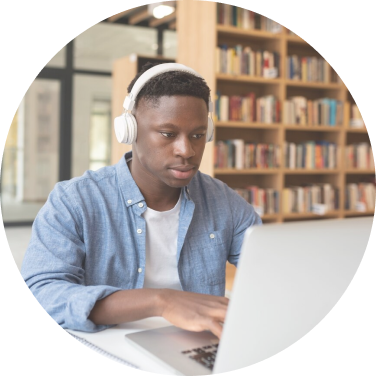
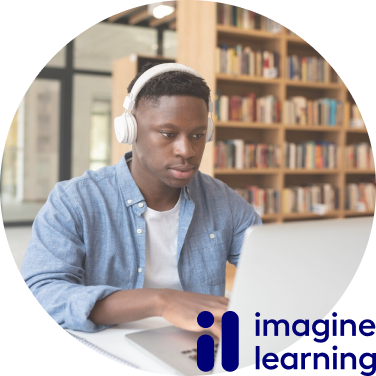
Add Section - Imagine Learning & Elgibility Registration

Changed region(s): [[0.6729, 0.8191, 1.0, 1.0], [0.5266, 0.8191, 0.6436, 0.9947]]

diff --git a/style.css b/style.css
@@ -4,6 +4,7 @@
   --clr-orange: #fa913c;
   --clr-gray: #aaa;
   --clr-light-gray: #e7e7e7;
+  --container-padding: clamp(1.5rem, -1.777rem + 13.981vw, 15rem);
 }
 
 /* ---------- font-face ---------- */
@@ -81,6 +82,8 @@ body {
 body {
   font-family: "Archivo Expanded", sans-serif;
   font-size: clamp(0.875rem, 0.696rem + 0.764vw, 1.25rem);
+  font-weight: 300;
+  line-height: 1.4;
   -webkit-font-smoothing: antialiased;
 }
 
@@ -115,20 +118,30 @@ h6 {
   display: flex;
 }
 
+.d-grid {
+  display: grid;
+}
+
 .container {
-  padding-inline: clamp(1.5rem, -1.777rem + 13.981vw, 15rem);
+  padding-inline: var(--container-padding);
   margin: 0 auto;
 }
 
 /* ---------- Styles ---------- */
-
+h1, h2 {
+  text-transform: uppercase;
+}
 hr {
   border: 0;
   border-bottom: 1px solid var(--clr-black);
 }
 
-/* header */
+body {
+  max-width: 1920px;
+  margin: 0 auto;
+}
 
+/* header */
 header .container {
   padding-block: 1rem;
   justify-content: space-between;
@@ -145,12 +158,11 @@ header nav a {
 }
 
 header hr {
-  width: calc(100% - 1.5rem);
+  width: calc(100% - var(--container-padding));
   float: right;
 }
 
 /* hero */
-
 #hero {
   position: relative;
   margin-block: 1.5rem;
@@ -166,7 +178,6 @@ header hr {
 }
 
 #hero .container {
-  display: grid;
   align-content: center;
   position: relative;
   z-index: 1;
@@ -187,7 +198,6 @@ header hr {
 }
 #hero p {
   font-weight: 300;
-  line-height: 1.4;
 }
 
 #hero p:first-of-type {
@@ -217,7 +227,7 @@ header hr {
   min-height: clamp(37.5rem, 28.901rem + 36.688vw, 55.5rem);
   padding-block: 4rem;
 }
-.subMenu_list {
+.subMenu__list {
   justify-content: space-between;
 }
 .subMenu {
@@ -244,36 +254,133 @@ header hr {
 .subMenu.athletics {
   background-image: url(./images/home_athletics.png);
 }
-.subMenu_txt {
+.subMenu__txt {
   font-weight: 700;
-  line-height: 1.4;
   text-align: center;
 }
-.subMenu_txt p:nth-child(1) {
+.subMenu__txt p:nth-child(1) {
   font-size: clamp(1rem, 0.761rem + 1.019vw, 1.5rem);
 }
-.subMenu_txt p:nth-child(2) {
+.subMenu__txt p:nth-child(2) {
   font-size: clamp(2rem, 1.522rem + 2.038vw, 3rem);
 }
-.subMenu_txt p:nth-child(2) span {
+.subMenu__txt p:nth-child(2) span {
   color: var(--clr-orange);
   background-color: var(--clr-black);
   border-radius: .5rem;
   padding-inline: 1rem;
 }
 
+/* Imagine Learning & Elgibility Registration */
+#imgLearning, #elgibility {
+  position: relative;
+  background-color: var(--clr-light-gray);
+  padding-block-start: clamp(2rem, 0.567rem + 6.115vw, 5rem);
+}
+:has(#imgLearning, #elgibility ) h2 {
+  font-weight: 800;
+  margin-bottom: 1.5rem;
+}
+#imgLearning hr {
+  position: absolute;
+  left: 0;
+  min-width: calc(100% - var(--container-padding));
+}
+#imgLearning .d-grid {
+  position: relative;
+  grid-template-columns: repeat(2, 1fr);
+  column-gap: clamp(0.625rem, 0.446rem + 0.764vw, 1rem);
+}
+.imgLearning__img {
+  position: relative;
+  top: -1rem;
+}
+.imgLearning__txt1 {
+  align-self: center;
+  margin-top: 1.5rem;
+}
+.imgLearning__txt2 {
+  margin-top: 1rem;
+  grid-column: 1 / span 2;
+}
+#elgibility {
+  padding-block-end: clamp(2rem, 0.567rem + 6.115vw, 5rem);
+  position: relative;
+}
+.elgibility__img {
+  display: none;
+}
+#elgibility hr {
+  position: absolute;
+  right: 0;
+  min-width: calc(100% - var(--container-padding));
+  z-index: 0;
+}
+.elgibility__logo {
+  padding-top: 2rem;
+  justify-content: center; 
+  gap: 2rem;
+}
+.elgibility__logo img {
+  width: clamp(6.563rem, 5.518rem + 4.459vw, 8.75rem);
+}
+
+/* ---------- MEDIA QUERY ---------- */
+
 @media (min-width: 768px) {
   
   /* hero */
   #hero {
-    margin-block: 3rem;
+    margin: 3rem 0 5rem;
   }
   #hero h1 {
     padding-top: unset;
     width: unset;
   }
   #hero p {
-    width: 55%;
+    width: 57%;
+  }
+
+  /* Imagine Learning & Elgibility Registration */
+  #imgLearning .d-grid {
+    grid-template-columns: 1fr 33.33%;
+  }
+  .imgLearning__img {
+    grid-column: 2;
+    grid-row: 1 / span 2;
+  }
+  .imgLearning__txt2 {
+    grid-column: 1;
+  }
+  #elgibility {
+    padding-block-start: 1rem;
+  }
+  #elgibility .d-grid {
+    grid-template-columns: repeat(2, 1fr);
+    gap: 5rem;
+  }
+  .elgibility__img {
+    display: block;
+    position: relative;
+  }
+  .elgibility__img .orangeCircle {
+    position: absolute;
+    background-color: var(--clr-orange);
+    border-radius: 50%;
+    mix-blend-mode: multiply;
+    height: 100%;
+    aspect-ratio: 1 / 1;
+    z-index: 2;
+  }
+  .elgibility__img img {
+    position: relative;
+    top: 6%;
+    left: 10%;
+    z-index: 1;
+  }
+  .elgibility__txt{
+    text-align: center;
+    align-self: center;
   }
 }
 
@@ -297,17 +404,17 @@ header hr {
     flex-direction: row;
     align-items: center;
   }
-  .subMenu_list {
+  .subMenu__list {
     flex-direction: column;
   }
   .subMenu.academics {
     margin-top: unset;
     margin-left: 200px;
   }
-  .subMenu_txt {
+  .subMenu__txt {
     text-align: left;
   }
-  .subMenu_txt p:nth-child(1) {
+  .subMenu__txt p:nth-child(1) {
     margin-top: 7.5rem;
     margin-bottom: 40px;
   }

diff --git a/index.html b/index.html
@@ -23,7 +23,7 @@
     <main>
       <section id="hero" class="d-flex">
         <img class="hero-img" src="./images/hero.png" />
-        <div class="container">
+        <div class="container d-grid">
           <h1><span>Welcome to</span> Midwest Christian Academy</h1>
           <p>
             Midwest Christian Academy has a mission of <span>educating and empowering</span>
@@ -40,12 +40,12 @@
       </section>
       <section class="bg-basketball">
         <div class="container">
-          <div class="subMenu_list d-flex">
+          <div class="subMenu__list d-flex">
             <a href="#" class="subMenu spiritual">Spiritual Growth</a>
             <a href="#" class="subMenu academics">Academics</a>
             <a href="#" class="subMenu athletics">Athletics</a>
           </div>
-          <div class="subMenu_txt">
+          <div class="subMenu__txt">
             <p>
               Institutions install habits,<br />
               habits become virtues,
@@ -55,6 +55,33 @@
               become<br />
               <span>character.</span>
             </p>
+          </div>
+        </div>
+      </section>
+      <section id="imgLearning">  
+        <div class="container">
+          <h2>EDUCATION POWERED BY Imagine Learning</h2>
+          <hr>
+          <div class="d-grid">
+            <p class="imgLearning__txt1"><b>Midwest Christian Academy partners with Imagine Learning Academy to maximize student achievement.</b></p>
+            <img class="imgLearning__img" src="./images/home_imagelearning.png" alt="Imagine Learning">
+            <p class="imgLearning__txt2">Imagine Edgenuity is a virtual alternative, and uses pre-recorded videos and primarily focuses on struggling students, and sticking at pace. Along with pre-recorded lecture, Imagine Edgenuity uses interactives and real-world problems.</p>
+          </div>
+        </div>
+      </section>
+      <section id="elgibility">
+        <div class="container d-grid">
+          <div class="elgibility__img">
+            <div class="orangeCircle"></div>
+            <img src="./images/home_elgibility.png">
+          </div>
+          <div class="elgibility__txt">
+            <h2>ELGIBILITY REGISTRATION</h2>
+            <hr>
+            <div class="elgibility__logo d-flex">
+              <img src="./images/logo_naia.png" alt="NAIA Logo">
+              <img src="./images/logo_ncaa.png" alt="NCAA Logo">
+            </div>
           </div>
         </div>
       </section>
